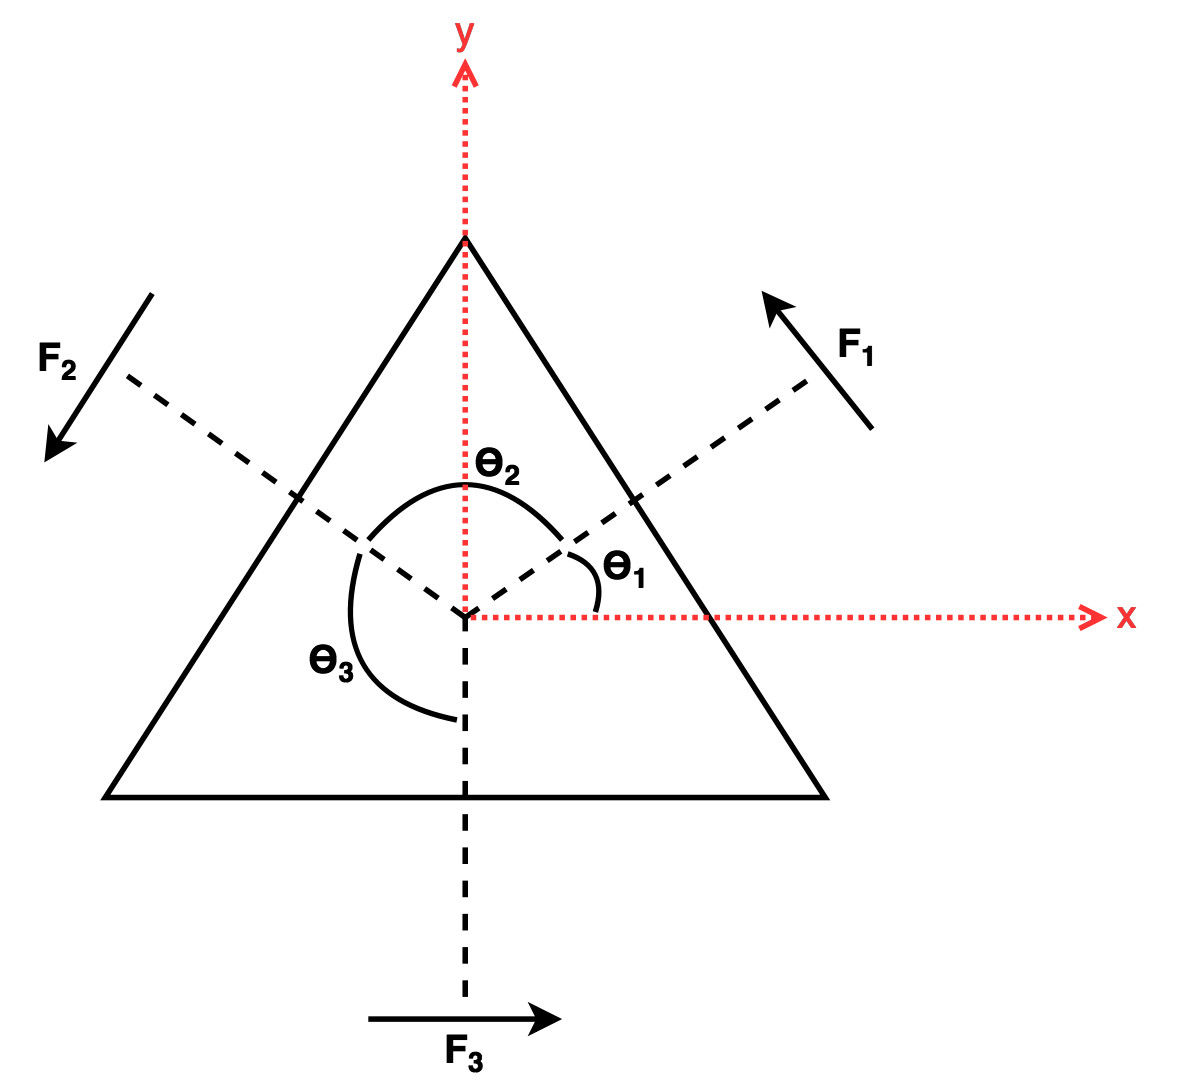
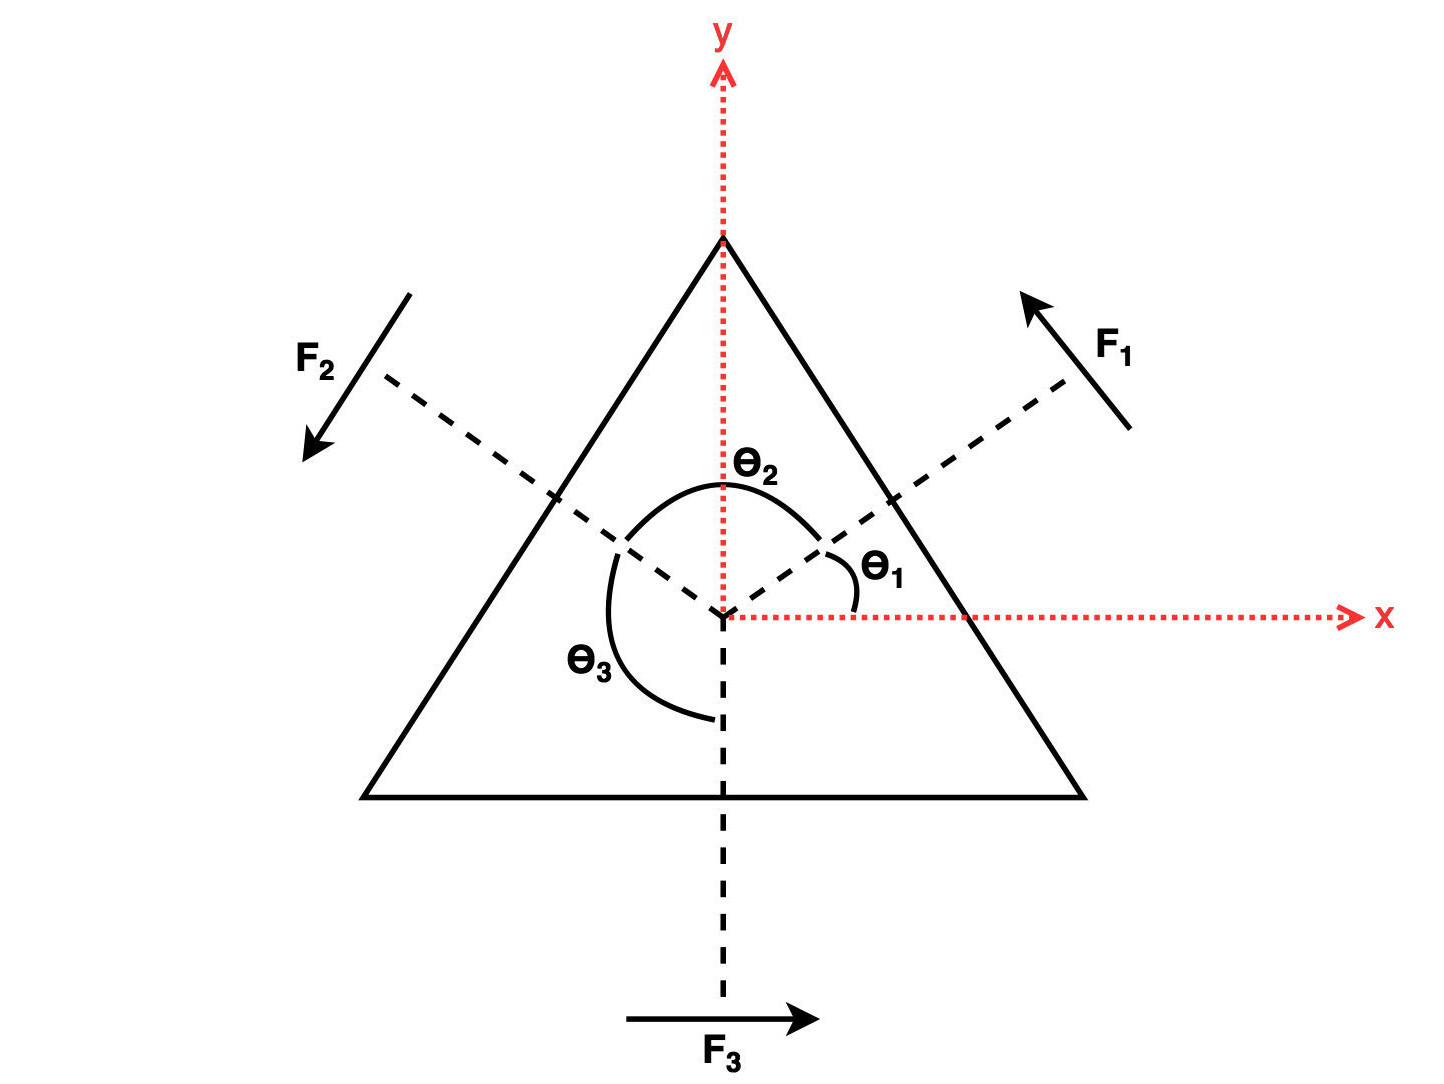
Balanced image, added math to post

diff --git a/_posts/2016-04-15-SDP-Firmware.md b/_posts/2016-04-15-SDP-Firmware.md
@@ -19,18 +19,50 @@ Our group settled on a three wheeled holonomic design pretty early on - motivati
 The maths behind holonomics isn't actually all that complex - it comes from doing the mechanics on the three forces produced by the three wheels, and the observation that what we're really dealing with is a matrix.
 
 <figure class="row">
-  <div class="col center" style="width: 60%;">
+  <div class="col center">
     <img src="/media/2016-04-15-holo-mech.jpg" 
-         alt="Three wheel holonomics mechanical diagram">
+         alt="Three wheel holonomics mechanical diagram"
+         style="width: 400px;">
   </div>
   <div class="col">
     <p>
-      The three forces produced by the wheels, F<sub>1</sub> through to F<sub>3</sub>. Simple trigonometry slits these into their <i>x,y</i> components.
+      The three forces produced by the wheels, F<sub>1</sub> through to F<sub>3</sub>. Simple trigonometry splits these forces into their <i>x,y</i> components.
     </p>
   </div>
 </figure>
 
+So, we have the following:
 
+<figure>
+  \[
+  F_x = F_1 \cdot \cos(\Theta_1 + \frac{\pi}{2}) + F_2 \cdot \cos(\Theta_2 + \frac{\pi}{2}) + F_3 \cdot \cos(\Theta_3 + \frac{\pi}{2})
+  \]
+
+  \[
+  F_y = F_1 \cdot \sin(\Theta_1 + \frac{\pi}{2}) + F_2 \cdot \sin(\Theta_2 + \frac{\pi}{2}) + F_3 \cdot \sin(\Theta_3 + \frac{\pi}{2})
+  \]
+</figure>
+
+Which, is equivalent to the following **Force Coupling** matrix: (Note the omega is the rotational force)
+
+<figure>
+  \begin{pmatrix}
+      F_1 \\
+      F_2 \\
+      F_3
+  \end{pmatrix}
+  =
+  \begin{pmatrix}
+      -\frac{1}{2} & \frac{\sqrt{3}}{2} & 1\\
+      -\frac{1}{2} & -\frac{\sqrt{3}}{2} & 1\\
+      1 & 0 & 1
+  \end{pmatrix}
+  \begin{pmatrix}
+      F_x \\
+      F_y \\
+      \omega
+  \end{pmatrix}
+</figure>
 
 Doing more than one thing
 =========================
